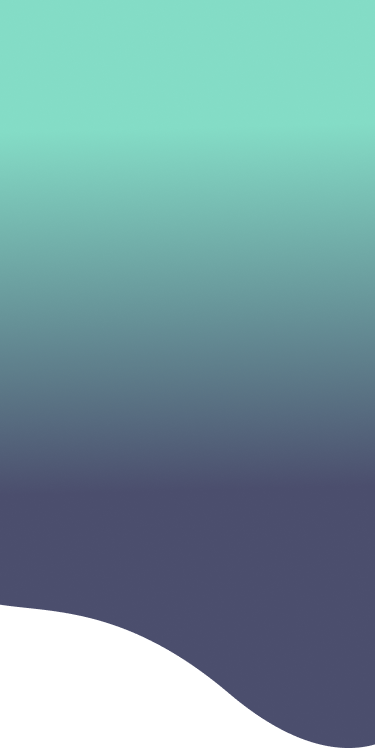
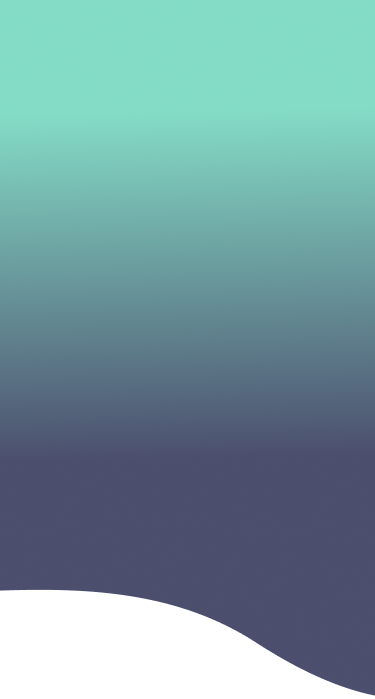
account background

Changed region(s): [[0.4693, 0.8712, 1.0, 1.0], [0.0, 0.7811, 0.4107, 0.8712], [0.44, 0.8412, 0.4693, 0.8712]]

diff --git a/GoSibu/Views/UserAccountPage.xaml b/GoSibu/Views/UserAccountPage.xaml
@@ -4,29 +4,18 @@
              x:Class="GoSibu.Views.UserAccountPage"
              xmlns:vm="clr-namespace:GoSibu.Views"
              NavigationPage.HasNavigationBar="False">
-
+ 
     <Grid>
-        <Image Source="ellipse11.png" 
-           HeightRequest="800" 
-           WidthRequest="1200" 
-           Aspect="AspectFit"
-           HorizontalOptions="FillAndExpand"
-           VerticalOptions="FillAndExpand"           
-           Margin="0,0,0,200">
-            <Image.GestureRecognizers>
-                <TapGestureRecognizer Tapped="OnTapGestureRecognizerTapped"
-                                      NumberOfTapsRequired="2" />
-            </Image.GestureRecognizers>
-        </Image>
-
+ 
         <Grid Margin="25">
             <Grid.RowDefinitions>
                 <RowDefinition Height="auto"></RowDefinition>
-                <RowDefinition Height="auto"></RowDefinition>
-                <RowDefinition Height="auto"></RowDefinition>
-                <RowDefinition Height="auto"></RowDefinition>
-                <RowDefinition Height="auto"></RowDefinition>
-                <RowDefinition Height="auto"></RowDefinition>
+                <RowDefinition ></RowDefinition>
+                <RowDefinition></RowDefinition>
+                <RowDefinition ></RowDefinition>
+                <RowDefinition ></RowDefinition>
+                <RowDefinition ></RowDefinition>
+                <RowDefinition ></RowDefinition>
                 <RowDefinition Height="auto"></RowDefinition>
                 <RowDefinition Height="auto"></RowDefinition>
             </Grid.RowDefinitions>
@@ -34,13 +23,27 @@
                 <ColumnDefinition Width=".5*"></ColumnDefinition>
                 <ColumnDefinition Width=".6*"></ColumnDefinition>
             </Grid.ColumnDefinitions>
-            <Border Stroke="#1C375C"
+                <Image Source="ellipse11.png" 
+                       HeightRequest="900"
+                       WidthRequest="1500"
+                       Aspect="AspectFit"
+                       HorizontalOptions="FillAndExpand"
+                       Grid.RowSpan="9"
+                       Grid.ColumnSpan="2"
+                       VerticalOptions="FillAndExpand"           
+                       Margin="0,-200,0,0">
+                    <Image.GestureRecognizers>
+                        <TapGestureRecognizer Tapped="OnTapGestureRecognizerTapped"
+                                      NumberOfTapsRequired="2" />
+                    </Image.GestureRecognizers>
+                </Image>
+                <Border Stroke="#1C375C"
                     StrokeThickness="4"
                     StrokeShape="Ellipse"
                     HeightRequest="200"
                     WidthRequest="200"
                     HorizontalOptions="Center"
-                    VerticalOptions="Center" 
+                    VerticalOptions="Center"
                     Grid.ColumnSpan="2">
             <Image  Source="cat.jpeg"
                     Grid.ColumnSpan="2"
@@ -76,7 +79,8 @@
                     Text="Email"
                     Grid.Row="3"
                     Grid.Column="0"
-                    FontSize="Small"></Label>
+                    FontSize="Small"
+                    VerticalOptions="Center"></Label>
             <Entry x:Name="UserEmail"
                     Grid.Row="3"
                     Grid.Column="1"
@@ -88,7 +92,8 @@
                     Text="PhoneNumber"
                     Grid.Row="4"
                     Grid.Column="0"
-                    FontSize="Small"></Label>
+                    FontSize="Small"
+                    VerticalOptions="Center"></Label>
             <Entry x:Name="UserPhoneNumber"
                     Grid.Row="4"
                     Grid.Column="1"
@@ -100,7 +105,8 @@
                     Text="Latest LogIn Time"
                     Grid.Row="5"
                     Grid.Column="0"
-                    FontSize="Small"></Label>
+                    FontSize="Small"
+                    VerticalOptions="Center"></Label>
             <Label  x:Name="lblname"
                     Grid.Row="5"
                     Grid.Column="1"

diff --git a/GoSibu/Views/MainPage.xaml b/GoSibu/Views/MainPage.xaml
@@ -76,32 +76,30 @@
                 FontAttributes="Bold"></Label>
         </VerticalStackLayout>
 
-        <ScrollView Grid.Row="3" Margin="10,20,10,0">
+        <ScrollView Grid.Row="3" Margin="10,20,10,0" >
                 <StackLayout >
                     <ActivityIndicator IsVisible="{Binding IsBusy}" IsRunning="True" />
 
                     <RefreshView Command="{Binding RefreshCommand}" IsRefreshing="{Binding IsRefreshing}" >
       
-                    <CollectionView ItemsSource="{Binding Packages}" >
+                    <CollectionView ItemsSource="{Binding Packages}">
                         <CollectionView.ItemTemplate >
                            
                             <DataTemplate x:DataType="models:PackageModel" >
                                 <Border Padding="40,12"
                                         Background="#FFFFFF"
-                                        HeightRequest="90"
-                                        WidthRequest="300"
                                         StrokeShape="RoundRectangle 40,0,0,40"                                        
-                                        StrokeThickness="2.5"
-                                        >
+                                        StrokeThickness="2.5">
                                     <Border.Stroke>
                                         <LinearGradientBrush EndPoint="0,1">
                                             <GradientStop Color="#95A3B3" Offset="0.1" />
                                             <GradientStop Color="#222222" Offset="1.0" />
                                         </LinearGradientBrush>
                                     </Border.Stroke>
-                                    <StackLayout >
+                                    <StackLayout Margin="10">
                                         <StackLayout Orientation="Horizontal">
                                             <Label Text="{Binding PackageName}"
+                                                   FontSize="Body"
                                                    FontFamily="Roboto"
                                                    TextColor="#222222"
                                                    HorizontalTextAlignment="Center"
@@ -118,11 +116,11 @@
                                         <StackLayout Orientation="Horizontal">
                                             <Label Text="{Binding PackagePrice}" 
                                                    TextColor="#222222"
+                                                   FontSize="Subtitle"
                                                    FontFamily="Roboto"
-                                                   HorizontalTextAlignment="Center"
-                                                   HorizontalOptions="Center"/>
-                                    </StackLayout>
-                                        <BoxView HeightRequest="1.5" Color="#4B4E6D" />
+                                                   HorizontalOptions="EndAndExpand"/>
+                                        </StackLayout>
+                                        <BoxView HeightRequest="1" Color="#4B4E6D" />
 
                                         <StackLayout.GestureRecognizers>
                                         <TapGestureRecognizer Command="{Binding Source={x:RelativeSource AncestorType={x:Type viewModels:PackageListPageViewModel}},Path=SelectedPackageCommand}" CommandParameter="{Binding .}" />

diff --git a/GoSibu.WebApi/Models/Setting.cs b/GoSibu.WebApi/Models/Setting.cs
@@ -4,5 +4,8 @@
     {
         internal const string FireBaseDatabaseUrl = "https://gosibu-css3344-default-rtdb.asia-southeast1.firebasedatabase.app/";
         internal const string FireBaseSeceret = "";
+        //public string getToken = "https://firebase.google.com/docs/reference/android/com/google/firebase/auth/GetTokenResult?hl=zh-cn#public-string-gettoken";
     }
+
+
 }

diff --git a/GoSibu/Views/UserAccountPage.xaml.cs b/GoSibu/Views/UserAccountPage.xaml.cs
@@ -10,7 +10,7 @@ public partial class UserAccountPage : ContentPage
     async void OnTapGestureRecognizerTapped(object sender, EventArgs eventArgs)
     {
         Image g = (Image)sender;
-        await g.TranslateTo(-30, 0, 500);
+        await g.TranslateTo(-40, 0, 1000);
 
     }
 
